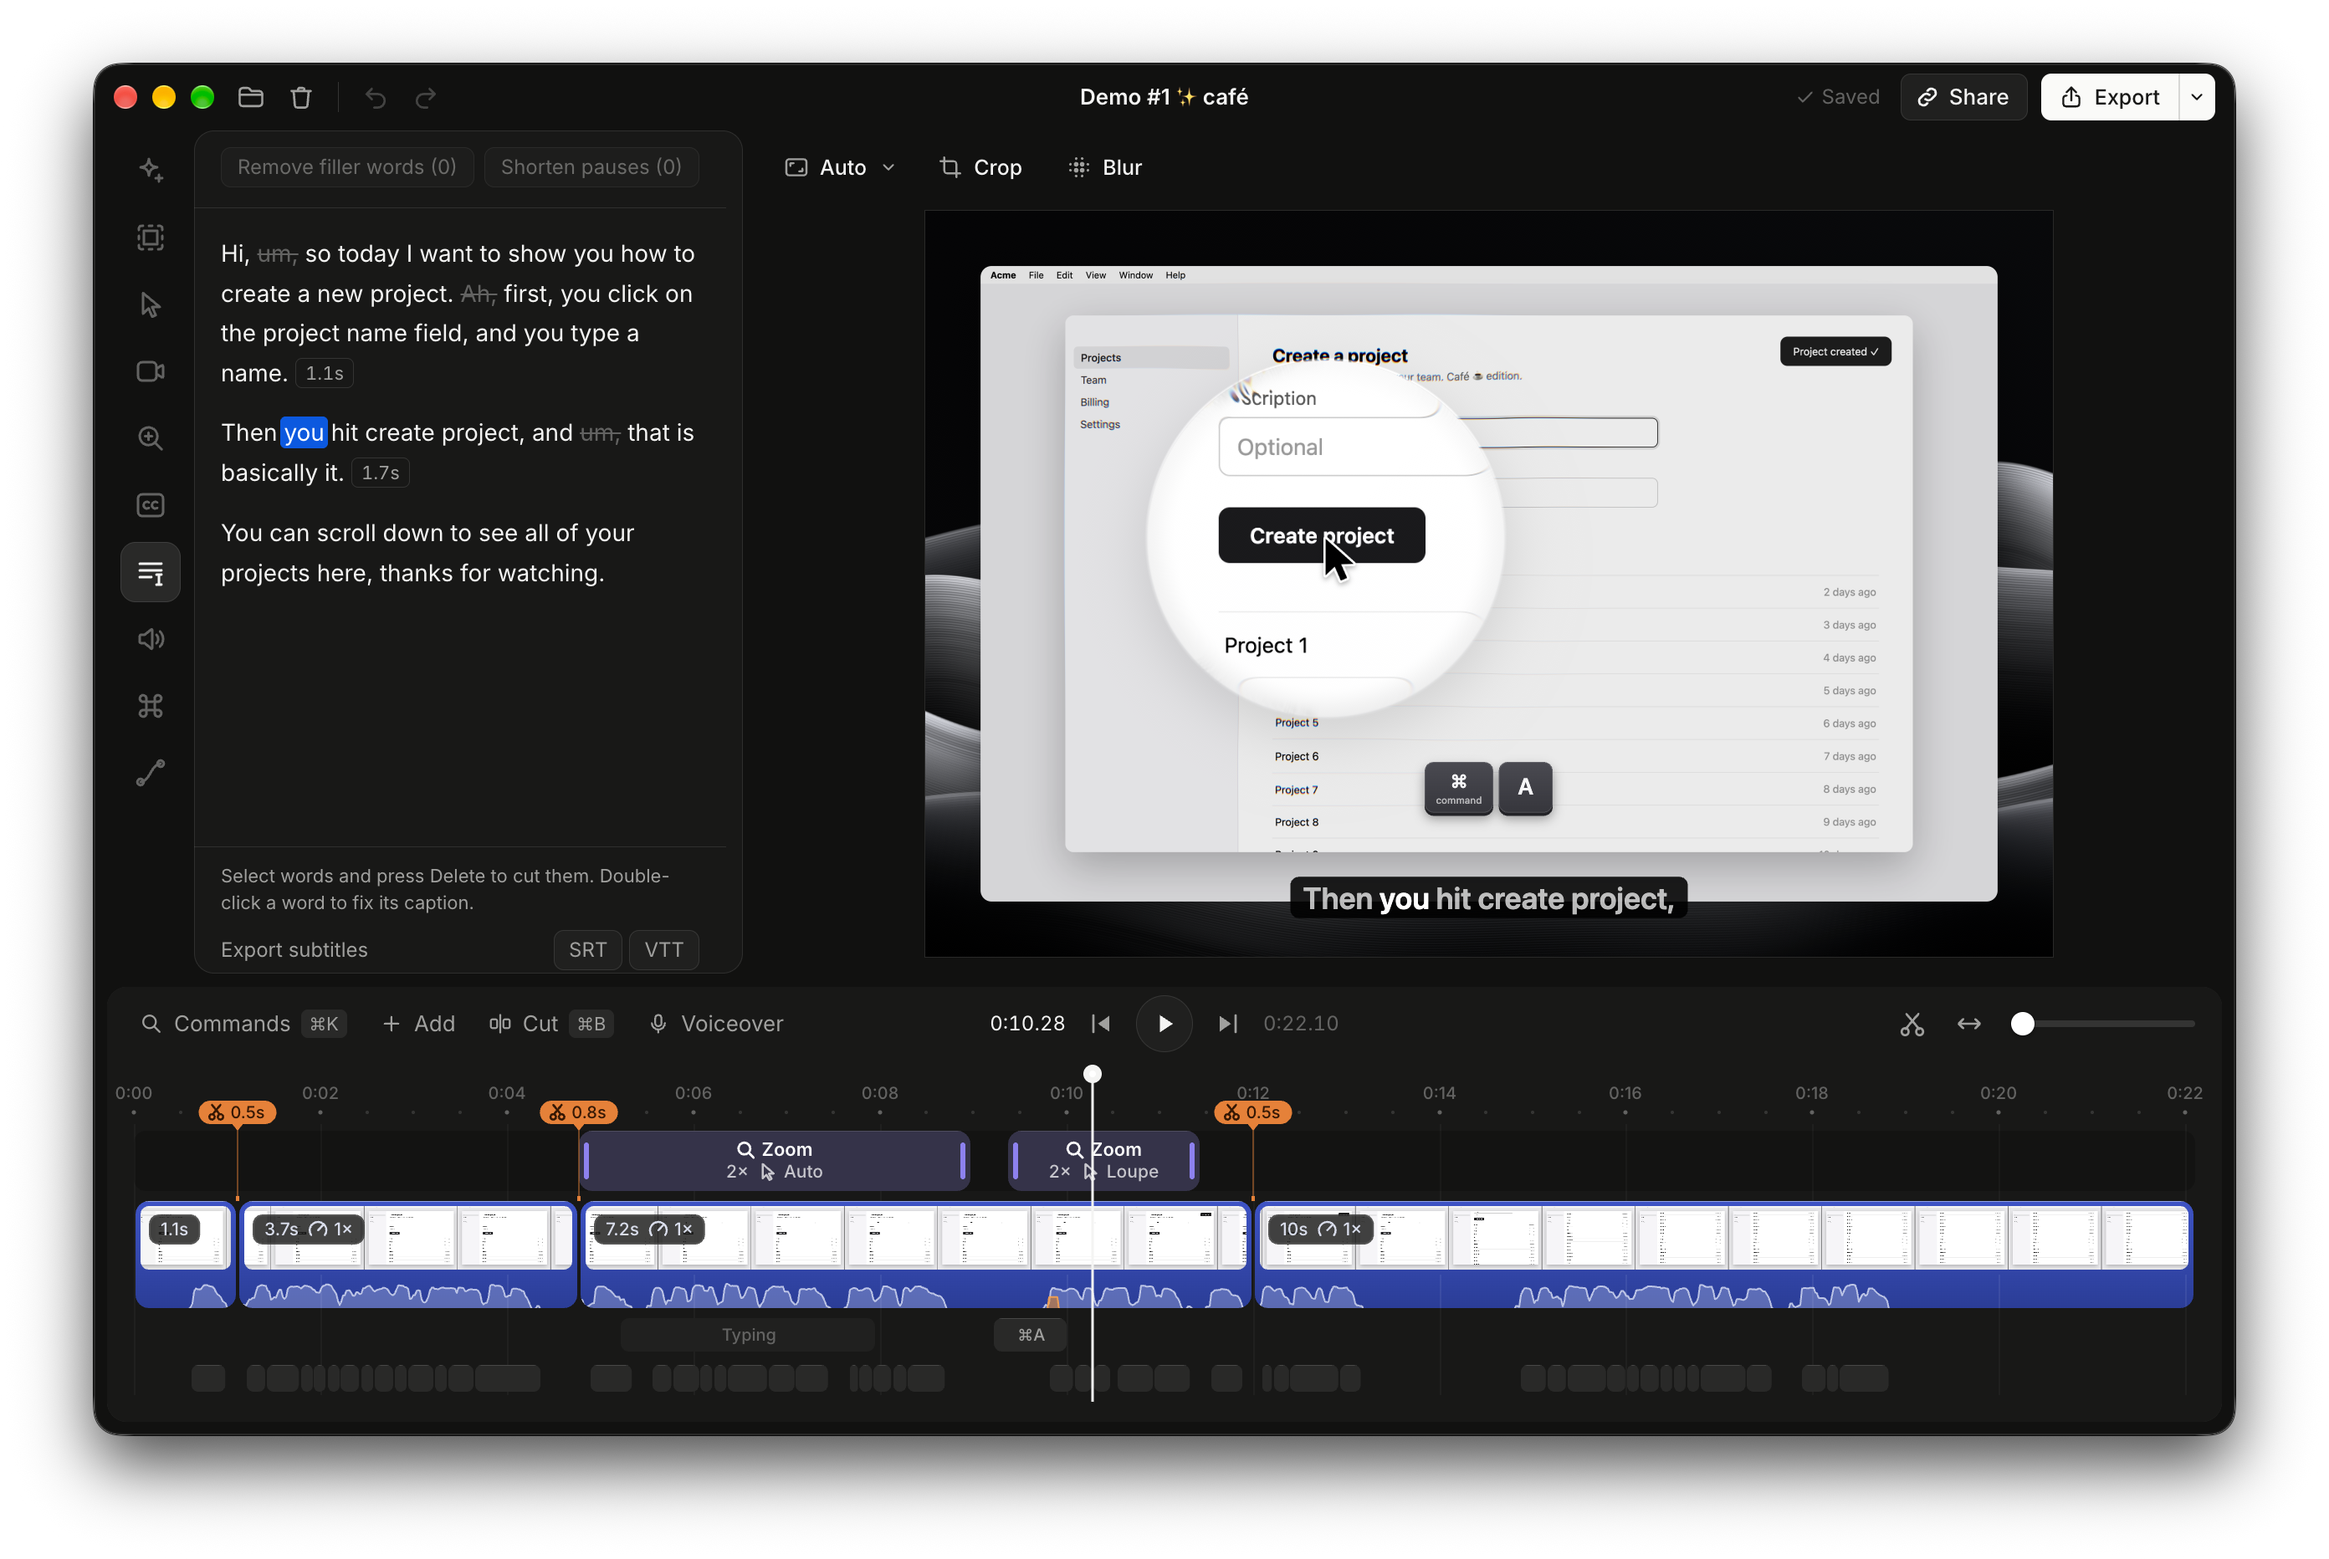
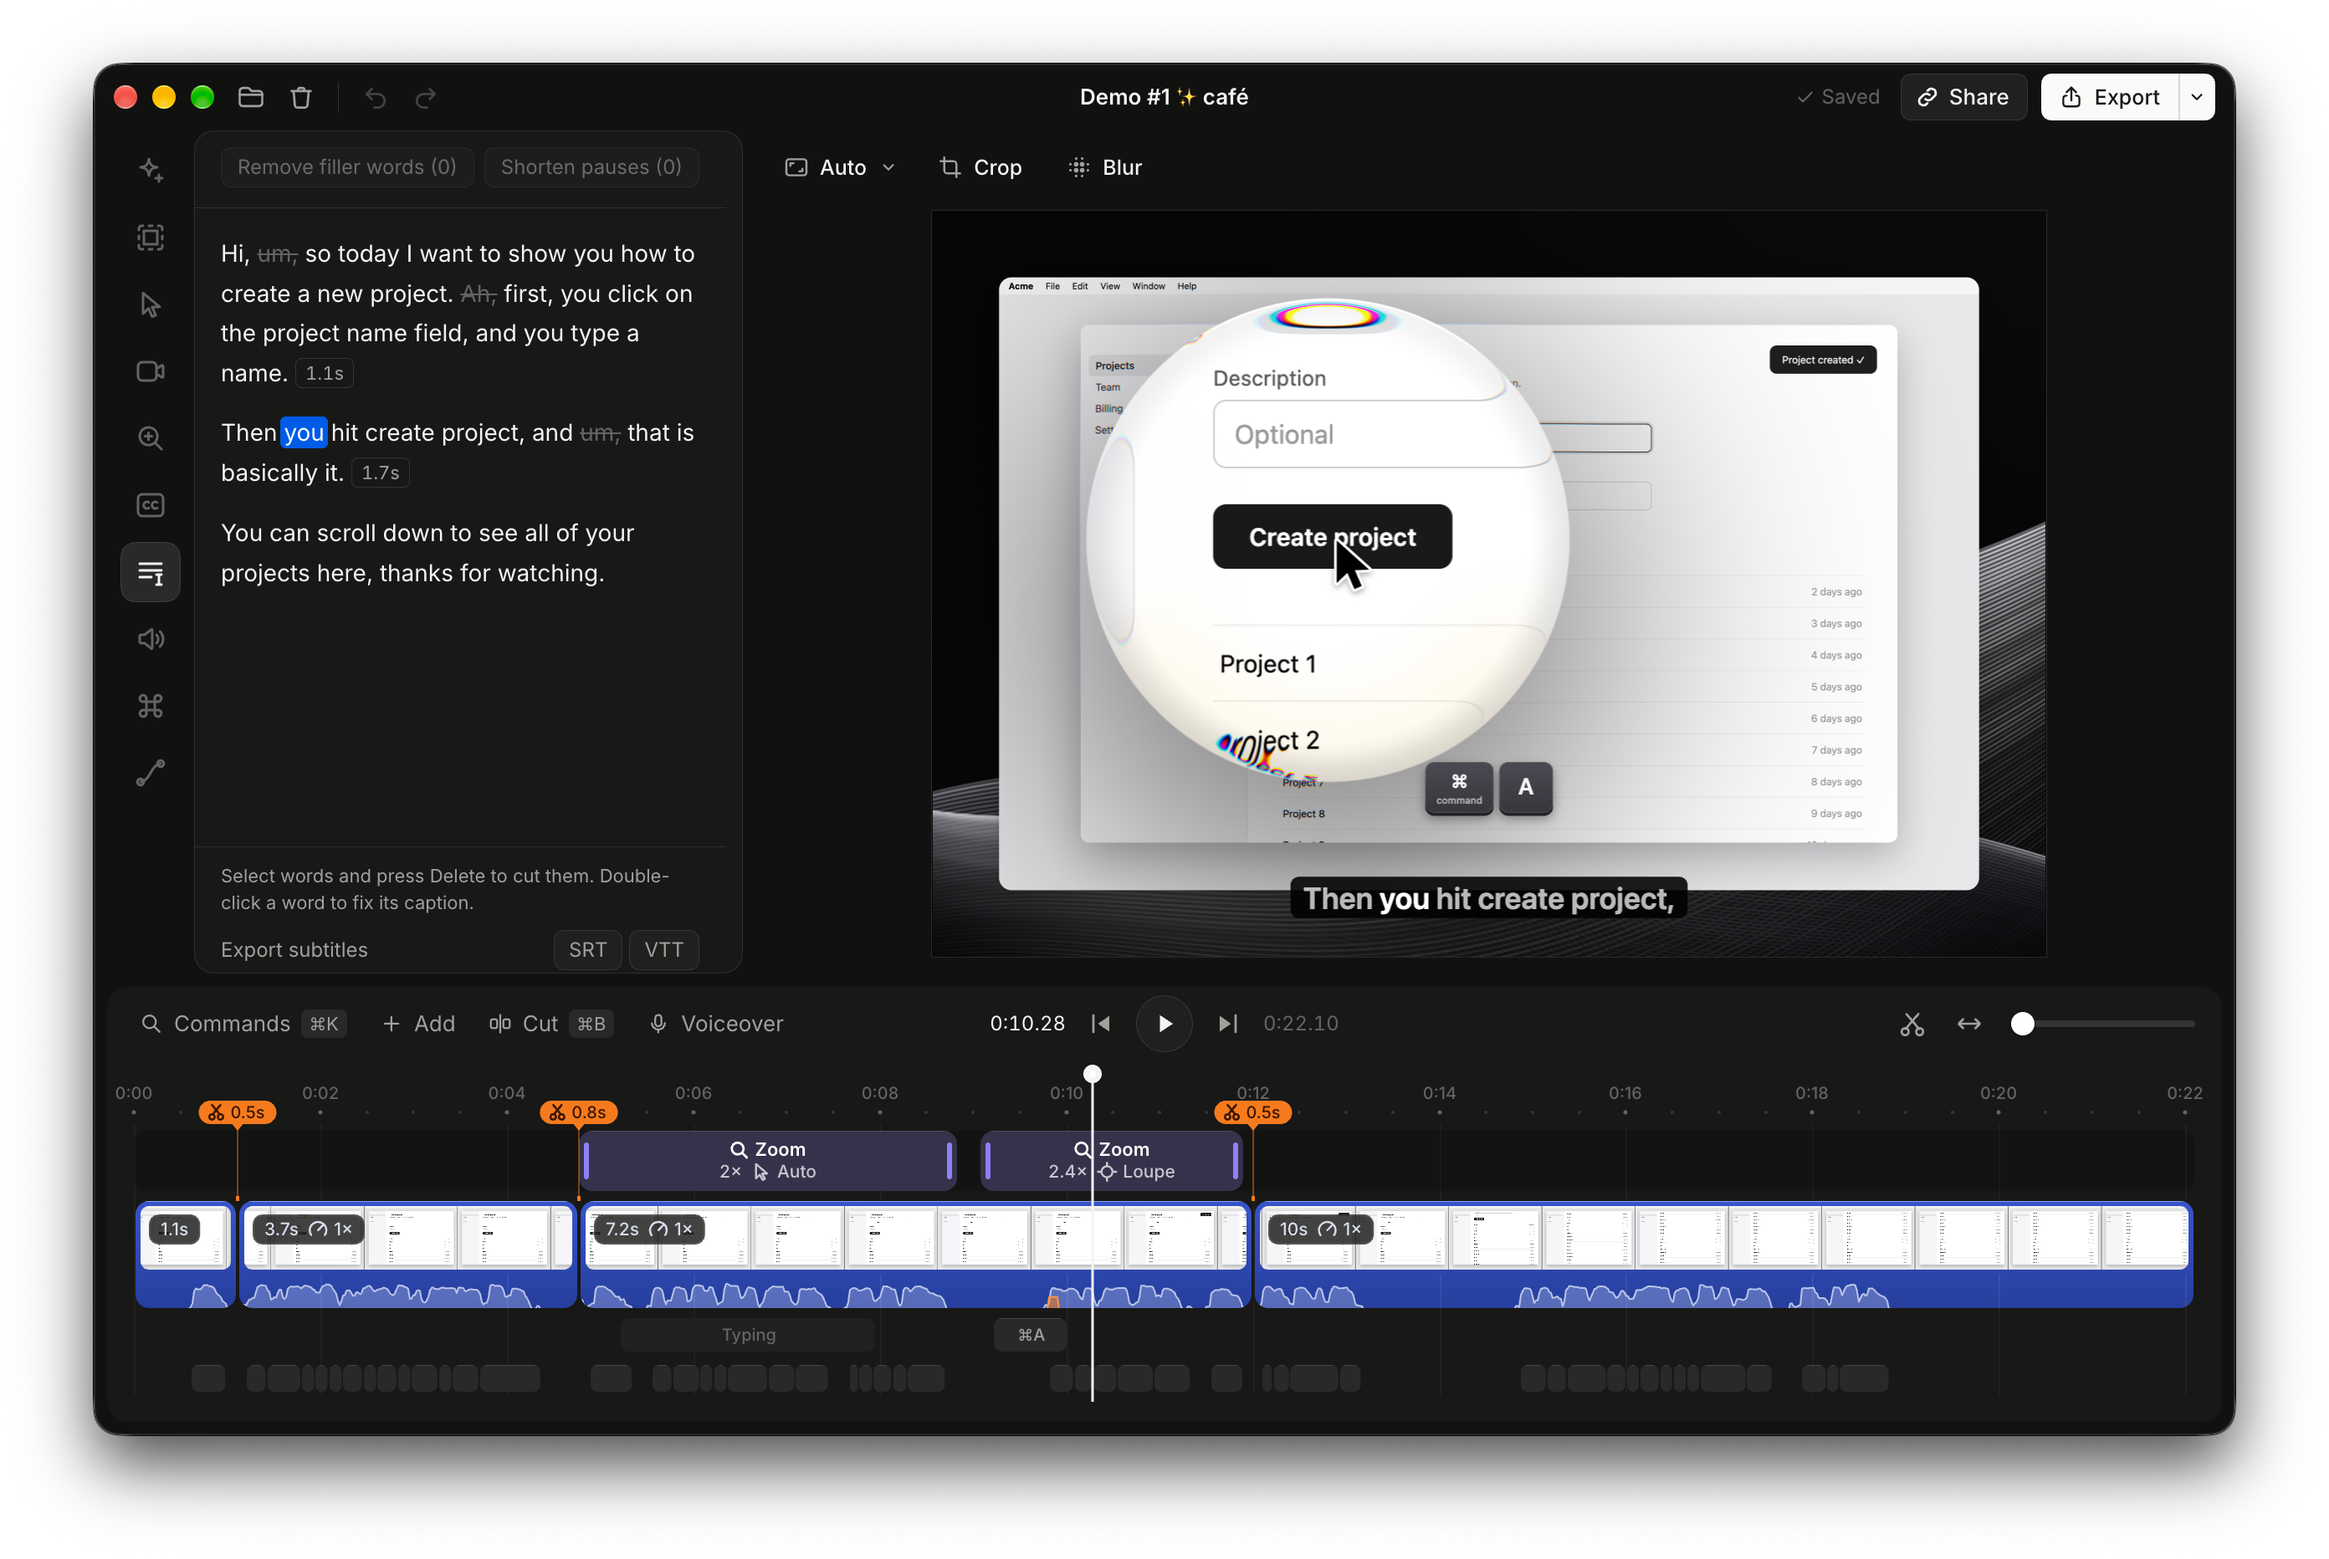
feat(auto-zoom): bigger default loupe and fresh README screenshots (#91)
* feat(auto-zoom): bigger default loupe, max up to the frame height

* feat(auto-zoom): let the loupe grow to 800

* feat(auto-zoom): cap the loupe size at 600

---------

diff --git a/src/windows/dev/labs/Render.svelte b/src/windows/dev/labs/Render.svelte
@@ -11,6 +11,7 @@
   import { fileUrl } from '../../../engine/media/index.ts'
   import { Renderer, type Motion } from '../../../engine/gpu/renderer.ts'
   import { motionAt } from '../../../engine/compose.ts'
+  import { LOUPE_SIZE } from '../../../engine/zoom/index.ts'
   import { WALLPAPERS } from '../../../engine/backgrounds/index.ts'
   import { wallpaperThumbnail } from '../../../engine/backgrounds/thumbnails.ts'
   import { SvelteMap } from 'svelte/reactivity'
@@ -46,7 +47,7 @@
     lmag: 2,
     lstart: 0, // source seconds the loupe zoom starts (render just after it to see it appear)
     lliquid: false,
-    lsize: 260,
+    lsize: LOUPE_SIZE.initial,
     motion: 0, // simulated zoom speed: scale change across the shutter
     cursor: '' as string, // built-in override: arrow, pointer, ibeam, touch
     set: 'system' as NonNullable<Style['cursor']['set']>,
@@ -299,7 +300,7 @@
     <label>loupe level <input type="range" min="1" max="4" step="0.1" bind:value={s.lmag} /> {s.lmag}</label>
     <label>loupe start <input type="range" min="0" max="23" step="0.05" bind:value={s.lstart} /> {s.lstart}</label>
     <label><input type="checkbox" bind:checked={s.lliquid} /> liquid loupe</label>
-    <label>loupe size <input type="range" min="60" max="400" step="10" bind:value={s.lsize} /> {s.lsize}</label>
+    <label>loupe size <input type="range" min={LOUPE_SIZE.min} max={LOUPE_SIZE.max} step="10" bind:value={s.lsize} /> {s.lsize}</label>
     <label><input type="checkbox" bind:checked={s.removeBg} /> remove background</label>
     <label><input type="checkbox" bind:checked={s.followFace} /> follow face</label>
     <label><input type="checkbox" bind:checked={s.lut} /> LUT</label>

diff --git a/src/engine/zoom/index.ts b/src/engine/zoom/index.ts
@@ -77,8 +77,9 @@ const LOUPE_FOLLOW: SpringConfig = { stiffness: 120, damping: 2 * 0.65 * Math.sq
 const LOUPE_LEAD = LOUPE_FOLLOW.damping / LOUPE_FOLLOW.stiffness // s: the follow spring trails a steady glide by this, so it aims that far ahead
 const LOUPE_TOP = 0.85 // the flat top's share of the lens radius (shaders.wgsl BEVEL): only it shows the content magnified
 const LOUPE_WALL = 0.7 // the cursor never gets further from the lens center than this share of what the flat top shows
-/** Loupe lens radius in units (Zoom.size): what fits depends on what it shows, a button or a paragraph. */
-export const LOUPE_SIZE = { min: 60, max: 400, initial: 260 }
+/** Loupe lens radius in units (Zoom.size): what fits depends on what it shows, a button or a paragraph.
+ *  At 540 (half of 1080) the lens spans the frame's short side; past it, the frame crops the lens. */
+export const LOUPE_SIZE = { min: 60, max: 600, initial: 350 }
 /** The look of `z` for new zooms: a loupe's mode, size, and shape, or nothing for a full zoom (the default). */
 export const lookOf = (z: ZoomLook): ZoomLook =>
   z.mode === 'loupe' ? { mode: 'loupe', ...(z.size ? { size: z.size } : {}), ...(z.liquid ? { liquid: true } : {}) } : {}

diff --git a/src/engine/zoom/zoom.test.ts b/src/engine/zoom/zoom.test.ts
@@ -311,10 +311,10 @@ test('loupe fades in and out, magnifies, and follows its target', () => {
   assert.deepEqual(loupeAt(rigid.p.zoom, 3.5)!.stretch, { x: 0, y: 0 }, 'rigid by default')
   // Size is the radius in units (px at 1080p; this output is 1200 high), clamped to its range.
   const sized = (size?: number) => loupeAt(setup([zoom({ start: 2, end: 5, mode: 'loupe', size })], events, { duration: 10 }).p.zoom, 3.5)!.radius
-  near(sized(), (260 * 1200) / 1080, 1e-3)
+  near(sized(), (350 * 1200) / 1080, 1e-3)
   near(sized(100), (100 * 1200) / 1080, 1e-3)
-  near(sized(5000), (400 * 1200) / 1080, 1e-3)
-  near(sized(NaN), (260 * 1200) / 1080, 1e-3)
+  near(sized(5000), (600 * 1200) / 1080, 1e-3)
+  near(sized(NaN), (350 * 1200) / 1080, 1e-3)
   const fadeOut = loupeAt(p.zoom, 5.1)!
   assert.ok(fadeOut.opacity > 0 && fadeOut.opacity < 1)
   assert.equal(loupeAt(p.zoom, 6), null)
